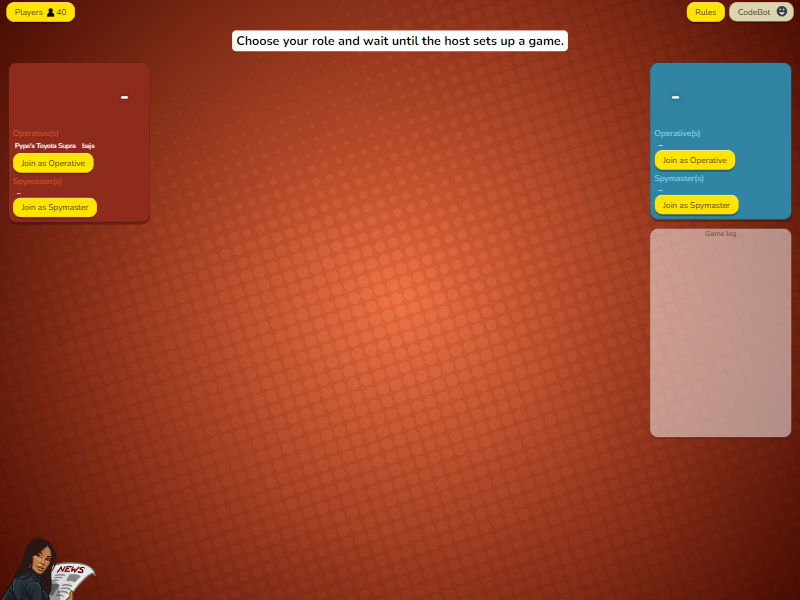
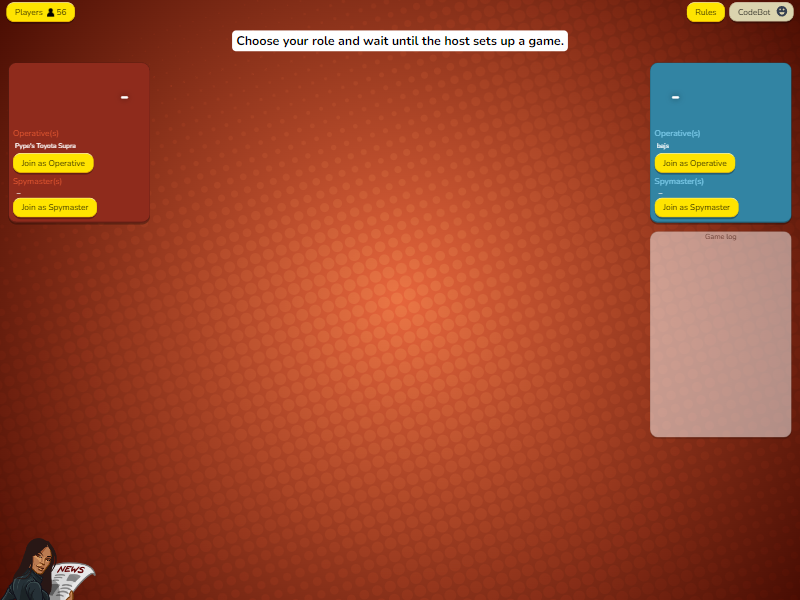
Added code for checking player names in all player types

Changed region(s): [[0.8125, 0.24, 1.0, 0.42], [0.0938, 0.24, 0.125, 0.27]]

diff --git a/app.js b/app.js
@@ -2,27 +2,54 @@ import puppeteer from "puppeteer/internal/puppeteer.js";
 
 // bot setup
 
-    const browser = await puppeteer.launch({headless: false})
-    const page = await browser.newPage();
+const browser = await puppeteer.launch({headless: false})
+const page = await browser.newPage();
 
-    await page.goto('https://codenames.game/room/piano-shoulder-wagon', {waitUntil: 'networkidle0'})
+await page.goto('https://codenames.game/room/reindeer-russia-stick', {waitUntil: 'networkidle0'})
 
-    await page.type('#nickname-input', 'CodeBot')
-    await page.click('.button.jsx-2506078312')
+await page.type('#nickname-input', 'CodeBot')
+await page.click('.button.jsx-2506078312')
 
 await page.waitForNetworkIdle({idleTime: 2000})
-await page.screenshot({path: 'test.png'})
 
+await page.waitForFunction(
+    'document.querySelector("#layoutRoot").innerText.includes("you need to join")'
+)
 
-// let redPlayerList = await page.evaluate(() => document.querySelector('.jsx-1562487247 > :nth-child(3)').querySelector('section').innerText)
+console.log('set up done')
 
 let redPlayerList = await page.evaluate(() => {
-    let res = Array.from(document.querySelector('.jsx-1562487247 > :nth-child(3)').querySelectorAll('section'))
+    let res = Array.from(document.querySelector('.red > :nth-child(3)').querySelectorAll('section'))
+    let ans = res.map(el => {
+        return el.innerText
+    })
+    return ans
+})
+
+let redSpymasterList = await page.evaluate(() => {
+    let res = Array.from(document.querySelector('.red > :nth-child(6)').querySelectorAll('section'))
+    let ans = res.map(el => {
+        return el.innerText
+    })
+    return ans
+})
+
+let bluePlayerList = await page.evaluate(() => {
+    let res = Array.from(document.querySelector('.blue > :nth-child(3)').querySelectorAll('section'))
     let ans = res.map(el => {return el.innerText})
     return ans
 })
 
-console.log(redPlayerList)
+let blueSpymasterList = await page.evaluate(() => {
+    let res = Array.from(document.querySelector('.blue > :nth-child(6)').querySelectorAll('section'))
+    let ans = res.map(el => {
+        return el.innerText
+    })
+    return ans
+})
+
+
+
 
 
 
